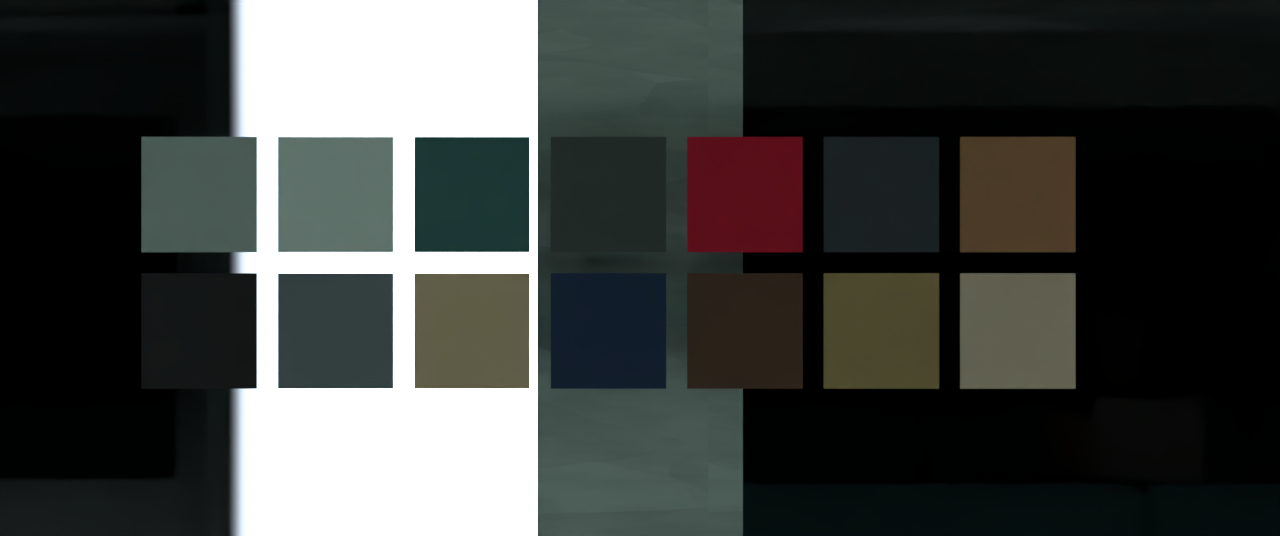
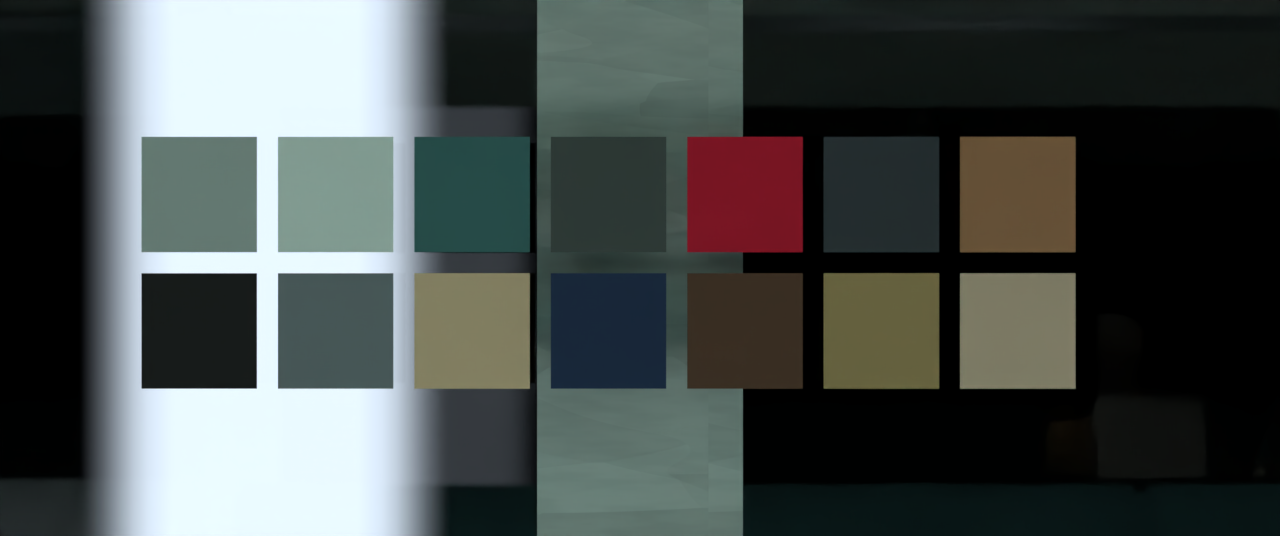
cg: look-dev checks re-run on look (c2): blackout 0, strap chroma, keys, palette chart PASS, asleep identical; Walter 241 exception noted
Claude-Session: https://claude.ai/code/session_01W37kuL5PT7hmQjDY89K2ob

diff --git a/film/cg/stills/checks/REPORT.md b/film/cg/stills/checks/REPORT.md
@@ -5,11 +5,11 @@ Generated by `film/cg/lookdev_checks.py`.
 | Check | Result | Detail |
 |---|---|---|
 | L2 / 8a blackout = 0 | PASS | sf04a_blackout.png: max pixel value = 0.000000 over 1280x536 px |
-| 8b / L7 strap highest chroma (BASE shot 2; floor shot 46) | PASS | 8b_shot02_BASE.png: strap p90 chroma 73.1 (358 px) vs everything else p99.9 26.1; 8b_shot46_floor.png: strap p90 chroma 33.0 (55216 px) vs everything else p99.9 12.6 |
+| 8b / L7 strap highest chroma (BASE shot 2; floor shot 46) | PASS | 8b_shot02_BASE.png: strap p90 chroma 81.9 (1032 px) vs everything else p99.9 37.4; 8b_shot46_floor.png: strap p90 chroma 51.0 (56099 px) vs everything else p99.9 33.9 |
 | L8 light keys on whole frames | PASS | 455 light keys checked, 0 off whole frames |
-| Designer palette chart (colour fidelity) | FAIL | palette_chart.png (Standard view, linear, asleep, card on side-A wall at y 8.6): rendered/expected ratio to laminate per swatch: set/laminate 1.000/1.000; set/ceiling 1.622/1.746; set/moquette 0.341/0.297; set/floor 0.214/0.182; THE_RED 0.272/0.320; noor/suit 0.149/0.109; noor/skin 0.502/0.518; noor/hair 0.084/0.027; kai/hoodie 0.499/0.466; kai/skin 1.141/1.176; bea/scrubs 0.121/0.077; bea/skin 0.179/0.144; walter/coat 0.667/0.657; walter/skin 1.217/1.272. Worst tolerance use 1.05 (<=1 passes: 15% relative or 0.05 absolute). Real wall vs card laminate: 1.03 (set and characters lit alike) |
+| Designer palette chart (colour fidelity) | PASS | palette_chart.png (Standard view, linear, asleep, card on side-A wall at y 8.6): rendered/expected ratio to laminate per swatch: set/laminate 1.000/1.000; set/ceiling 1.711/1.746; set/moquette 0.332/0.297; set/floor 0.202/0.182; THE_RED 0.263/0.320; noor/suit 0.135/0.109; noor/skin 0.490/0.518; noor/hair 0.060/0.027; kai/hoodie 0.496/0.466; kai/skin 1.158/1.176; bea/scrubs 0.109/0.077; bea/skin 0.163/0.144; walter/coat 0.658/0.657; walter/skin 1.073/1.103. Worst tolerance use 0.61 (<=1 passes: 15% relative or 0.05 absolute). Real wall vs card laminate: 1.07 (set and characters lit alike) |
 | L1 / 8d asleep frames identical | PASS | Shot 1 (asleep, locked, Pos A), painterly comp on, frames at 8 s and 20 s: max abs pixel difference = 0.000000 |
-| 8c catchlight row | PARTIAL | 8c_catchlights_noor_40mm.png (x4 crops; left 5 MIN all lit, right after 7.10). A catchlight from the overhead panels is present in both (P1-P2 stay lit); (Designer's face-rig eyes). Peak eye value 0.88 -> 0.88 |
+| 8c catchlight row | PARTIAL | 8c_catchlights_noor_40mm.png (x4 crops; left 5 MIN all lit, right after 7.10). A catchlight from the overhead panels is present in both (P1-P2 stay lit); (Designer's face-rig eyes). Peak eye value 0.99 -> 0.99 |
 
 ## Eye checks (`eye_checks.py`)
 
@@ -18,3 +18,7 @@ Generated by `film/cg/lookdev_checks.py`.
 | E1 P12 catchlight returns in Noor's eyes at 8.10 (shot 58, 75 mm) | PARTIAL (M4): catchlight shapes read on the rig corneas; P12's own return at 8.10 is measurable but sub-pixel at C75 | eyes_E1_noor_8.10_P12_return.png: frame 12191 / 12192 (P12 on, 110%) / 12204; 3870 crop pixels change by >5% (max 0.15) |
 | E2 Walter's lit-side catchlight, shot 53 | PASS | eyes_E2_walter_shot53.png at frame 10878 (P1-P2 lit, Walter under dark P3) |
 | E3 Bea eyes closed (F2): face read under BROWN and at the 7.10 edge | PASS under BROWN; 7.10 edge readable but low (M4, shot 49) | eyes_E3_bea_closed_brown_and_edge.png (left: cue 3 hold, Pos C 50 mm; right: after 7.10, shot 49) |
+
+## Exceptions (Director-approved)
+
+- **Walter forehead 241 on the pitched head (shot 38, 310 s), look (c2).** On walter/skin #C3A189 the forehead peaks at 241 (8-bit display), with the cheek at 200 and R-B 53/55. With the head level (325.5 s) it reads 228/200. This is above the ≤235 skin guard. The Director ruled to accept it: nothing clips, the hue holds, and a top-lit forehead tipped toward its panel is the brightest skin in frame for a physical reason. The 12° pitch and #C3A189 stay, and shot 38 is not re-rendered. Check frame: `stills/previs/c2_walter_s38.png`.
